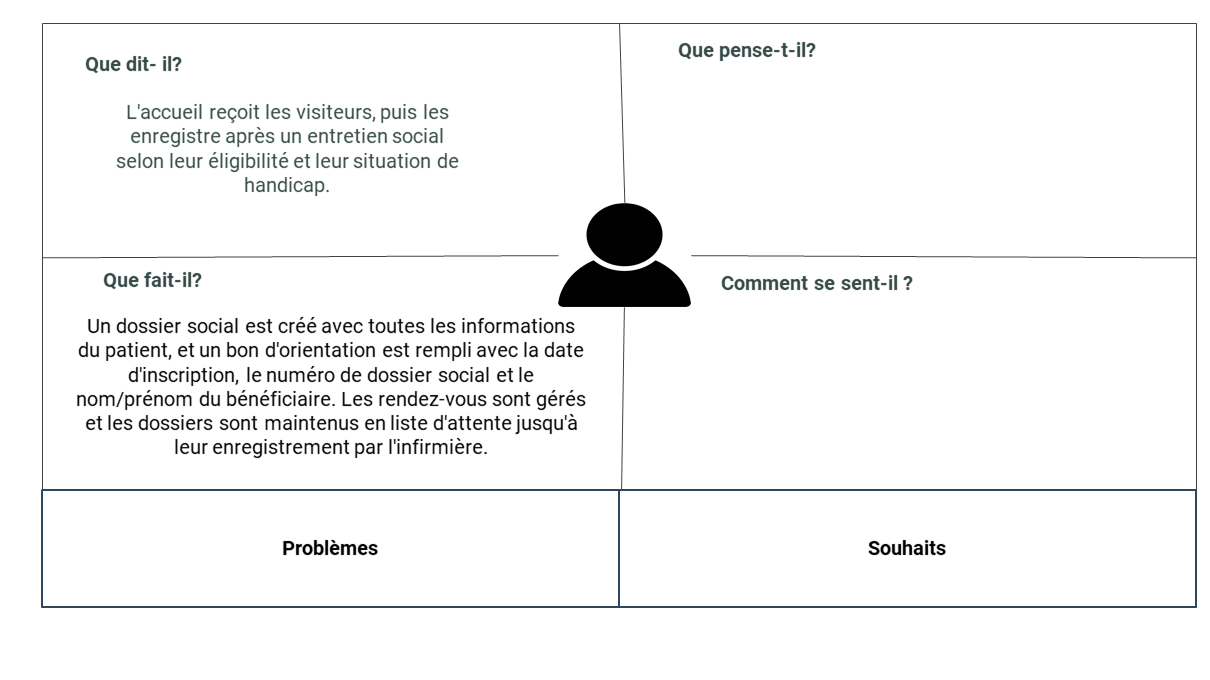
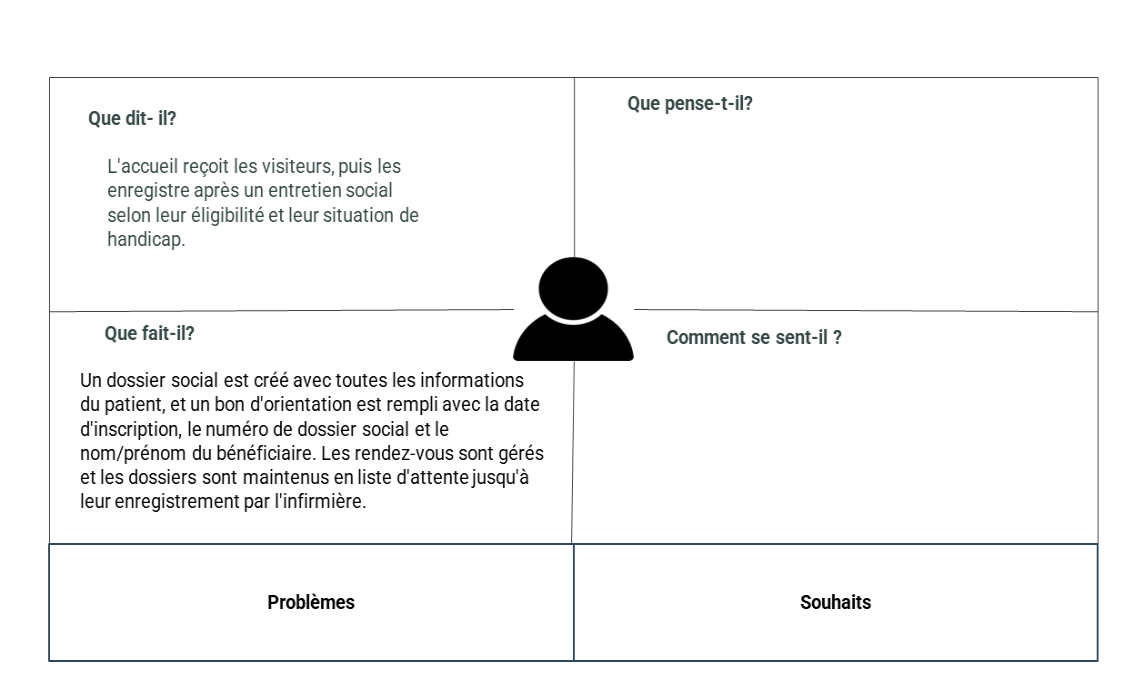
Update width of Empathie social image

diff --git a/docs/empathie-social/empathie-social.md b/docs/empathie-social/empathie-social.md
@@ -8,7 +8,7 @@ order: 4
 
 <!-- new slide -->
 ## Carte d'empathie 
-![Empathie social](/besoin/empathie-social/images/carte-empathie-service-social.png){:width="100%" }*figure : Carte d'empathie du service social Khawla souan*
+![Empathie social](/besoin/empathie-social/images/carte-empathie-service-social.png){:width="700px"}*figure : Carte d'empathie du service social Khawla souan*
 
 <!-- note -->
 ### Persona
